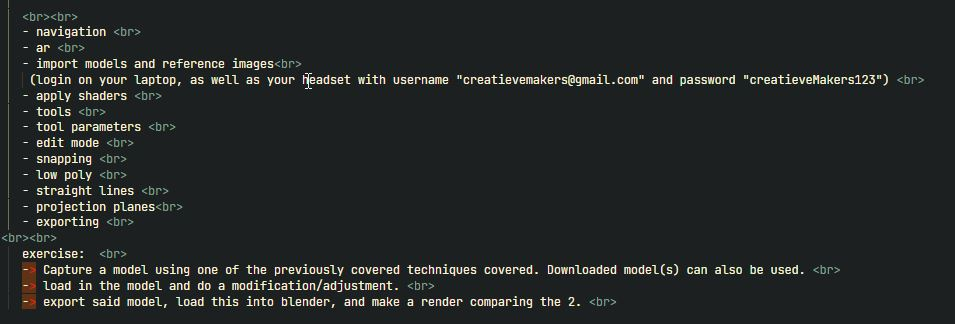
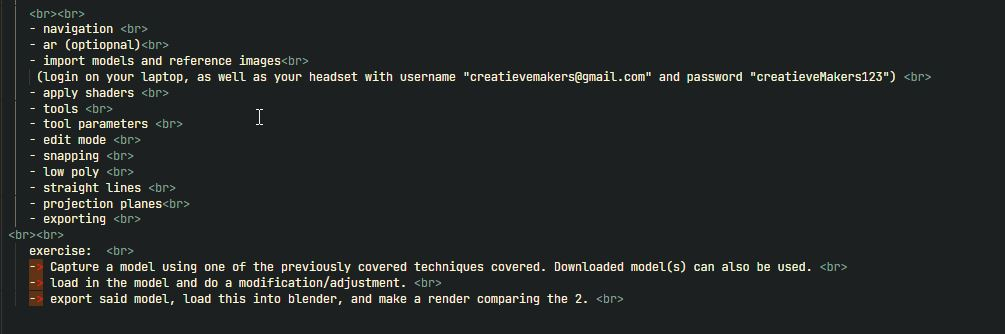
vr workshop

Changed region(s): [[0.0, 0.0309, 0.9717, 0.9568]]

diff --git a/site/elective2.html b/site/elective2.html
@@ -361,7 +361,7 @@ Make sure you download the project files in this <a style="color: blue;" target=
 
     <br><br>
     - navigation <br>
-    - ar <br>
+    - ar (optiopnal)<br>
     - import models and reference images<br>
      (login on your laptop, as well as your headset with username "creatievemakers@gmail.com" and password "creatieveMakers123") <br>
     - apply shaders <br>
